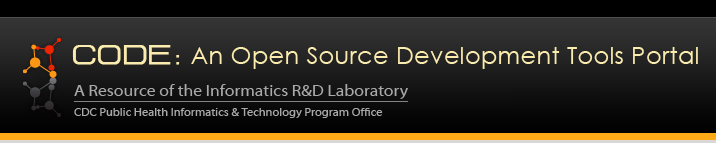
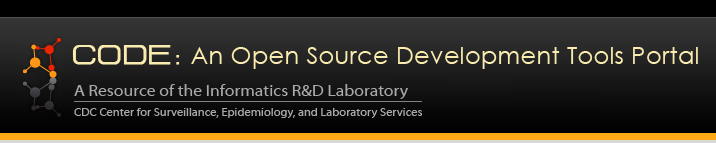
Updating graphics for Sara.

Changed region(s): [[0.1229, 0.7552, 0.6145, 0.8392], [0.5531, 0.6993, 0.5838, 0.7273]]

diff --git a/index.html b/index.html
@@ -23,7 +23,7 @@
   
   <div id="header">
   <div class="banner">
-  <a href="index.html"><img src="images/header.png" width="716" height="143" alt="CODE: An Open Source Development Tools Portal; A resource of the Informatics R&D Laboratory; CDC Public Health Informatics Program Office" title="CODE: An Open Source Development Tools Portal; A resource of the Informatics R&D Laboratory; CDC Public Health Informatics Program Office" /></a> 
+  <a href="index.html"><img src="images/header.png" width="716" height="143" alt="CODE: An Open Source Development Tools Portal; A resource of the Informatics R&D Laboratory; CDC's Center for Surveillance, Epidemiology, and Laboratory Services" title="CODE: An Open Source Development Tools Portal; A resource of the Informatics R&D Laboratory; CDC's Center for Surveillance, Epidemiology, and Laboratory Services" /></a> 
   </div>
   <div class="help">
   
